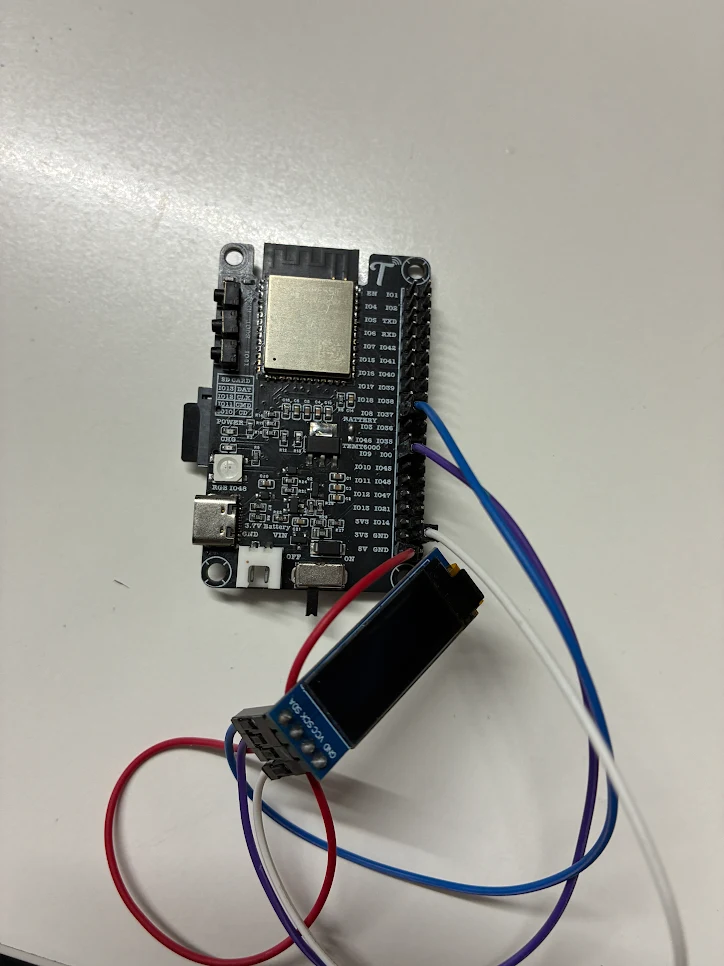
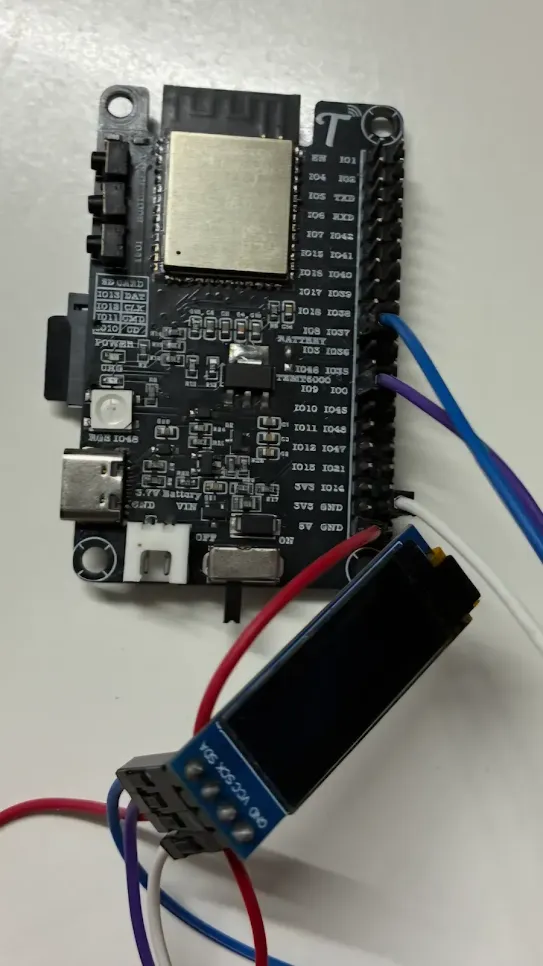
Updated ESP32 tutorials and documentation

diff --git a/src/components/HomepageFeatures/index.js b/src/components/HomepageFeatures/index.js
@@ -67,12 +67,12 @@ export default function HomepageFeatures() {
           </p>
 
           <a
-            href="https://store.thingslinker.com"
+            href="https://thingslinker.com"
             target="_blank"
             rel="noopener noreferrer"
             className={styles.storeButton}
           >
-            ThingsLinker Store
+            Visit Our Website 
           </a>
         </div>
 

diff --git a/src/pages/index.js b/src/pages/index.js
@@ -19,8 +19,8 @@ function HomepageHeader() {
         <div className={styles.buttons}>
           <Link
             className="button button--secondary button--lg"
-            to="https://thingslinker.com">
-            Visit Our Website 
+            to="https://store.thingslinker.com">
+            ThingsLinker Store
           </Link>
         </div>
       </div>

diff --git a/docs/ESP32 Boards/ESP32-S3 Boards/T-CORE-S3-BAT/2 Resources.md b/docs/ESP32 Boards/ESP32-S3 Boards/T-CORE-S3-BAT/2 Resources.md
@@ -4,14 +4,7 @@ sidebar_position: 2
 ---
 # Resources
 
-## 1. Hardware Resources
-
-### Development Board Design File
-
-- [Structure and Dimensions](https://store.thingslinker.com/product/tarangify-t-core-s3-24v-esp32-s3-development-board-5v-to-28v-wide-input-sd-card-rgb-led/)
----
-
-## 2. Technical Manuals
+## Technical Manuals
 
 ### Official Documentation
 
@@ -20,7 +13,7 @@ sidebar_position: 2
 - [ESP32-S3-WROOM-1 Datasheet](https://documentation.espressif.com/esp32-s3-wroom-1_wroom-1u_datasheet_en.pdf)
 ---
 
-## 3. Examples
+## Examples
 
 ### 1. RGB
 

diff --git a/docs/ESP32 Boards/01 Intro.md b/docs/ESP32 Boards/01 Intro.md
@@ -4,7 +4,7 @@ ESP32 is a series of System-on-Chip (SoC) developed by Espressif Systems. These 
 
 Espressif continues to release various ESP32 chips, forming a complete product line. Although different models vary in processor cores, specific functions, and pin configurations, they can all be developed using Espressif's unified Software Development Kit (SDK). This ensures good code compatibility and a consistent development experience.
 
-![ESP-32](/img/ESP321.webp)
+![ESP-32](/img/ESP32.png)
 
 ---
 

diff --git a/docs/ESP32 Boards/ESP32-S3 Boards/T-CORE-S3-24V/2 Resources.md b/docs/ESP32 Boards/ESP32-S3 Boards/T-CORE-S3-24V/2 Resources.md
@@ -4,15 +4,7 @@ sidebar_position: 2
 ---
 # Resources
 
-## 1. Hardware Resources
-
-### Development Board Design File
-
-- [Structure and Dimensions]()
-
---- 
-
-## 2. Technical Manuals
+## Technical Manuals
 
 ### Official Documentation
 
@@ -22,7 +14,7 @@ sidebar_position: 2
 
 ---
 
-## 3. Examples
+## Examples
 
 ### 1. RGB
 

diff --git a/docs/ESP32 Boards/ESP32-S3 Boards/T-CORE-S3-GSM/2 Resouces.md b/docs/ESP32 Boards/ESP32-S3 Boards/T-CORE-S3-GSM/2 Resouces.md
@@ -4,15 +4,7 @@ sidebar_position: 2
 ---
 # Resources
 
-## 1. Hardware Resources
-
-### Development Board Design File
-
-- [Structure and Dimensions]()
-
----
-
-## 2. Technical Manuals
+## Technical Manuals
 
 ### Official Documentation
 
@@ -25,7 +17,7 @@ sidebar_position: 2
 
 ---
 
-## 3. Examples
+## Examples
 
 ### 1. RGB
 
